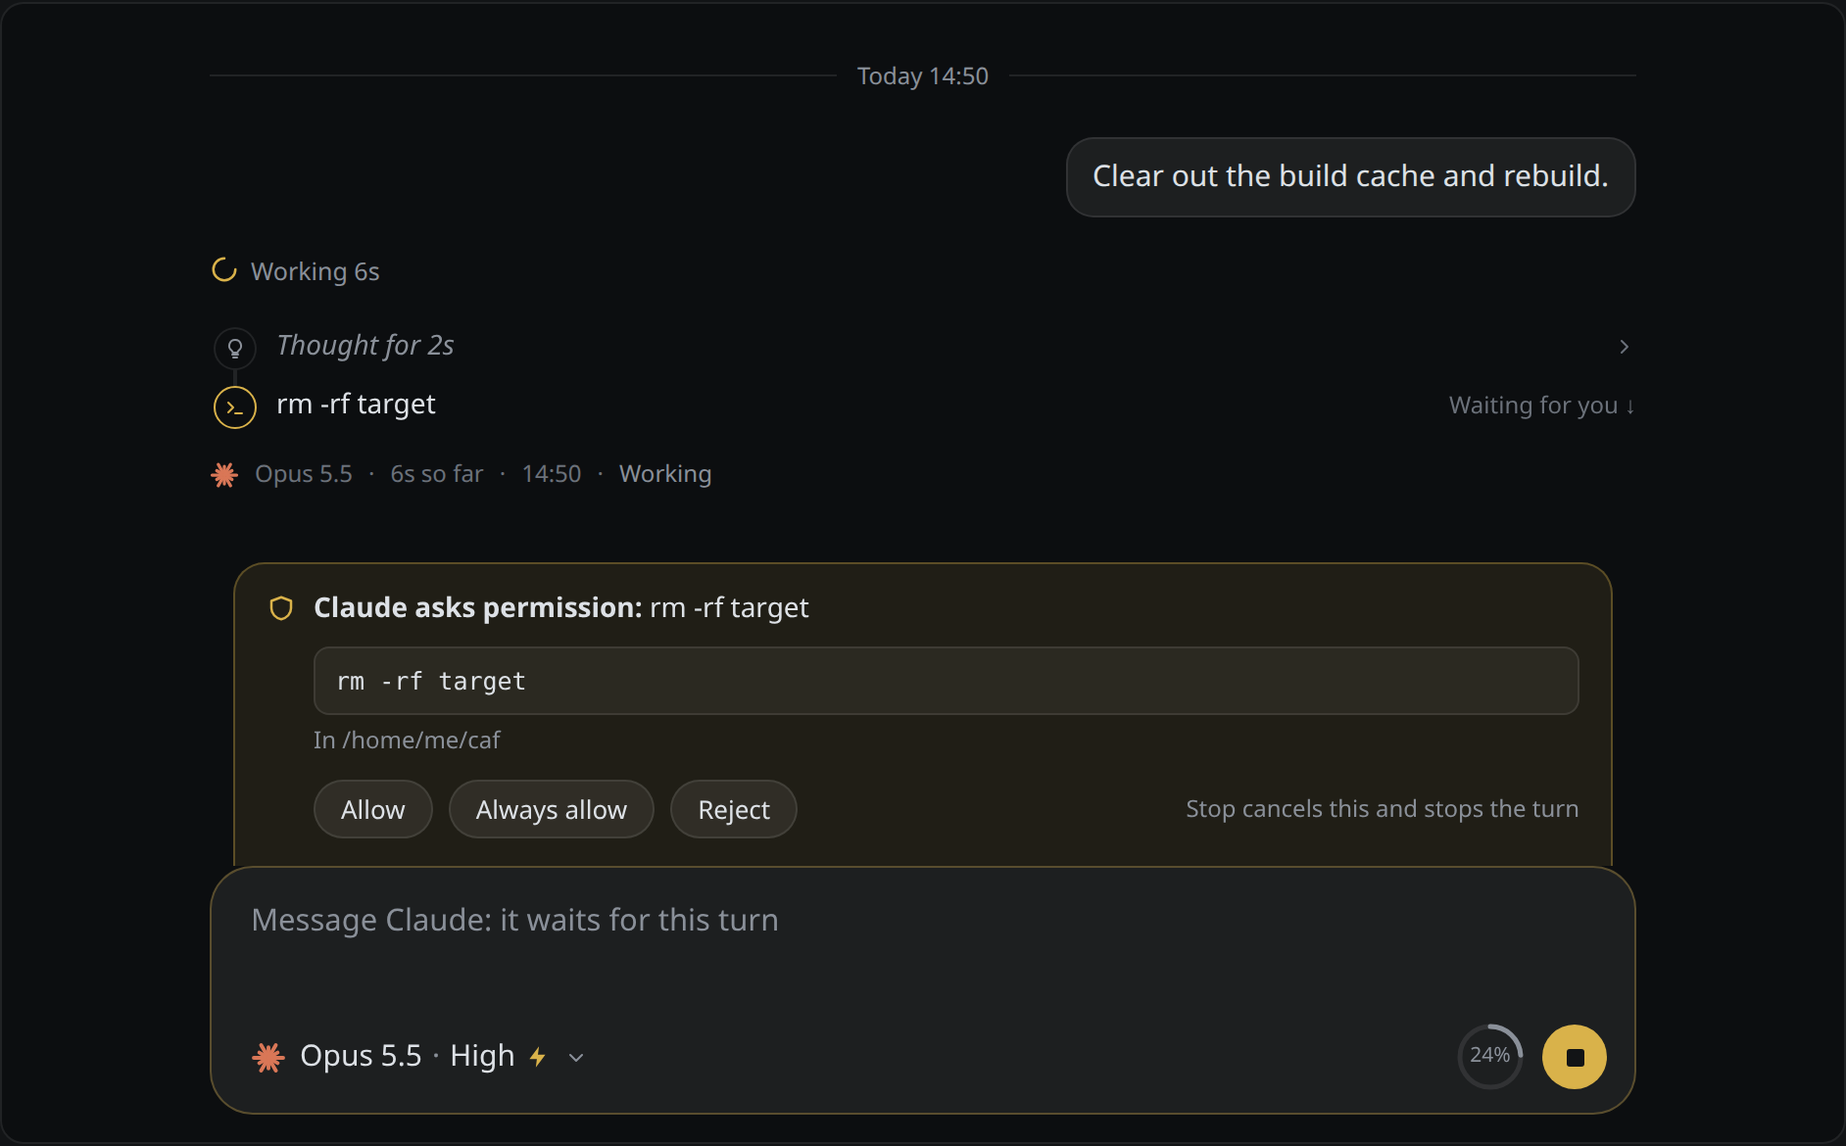
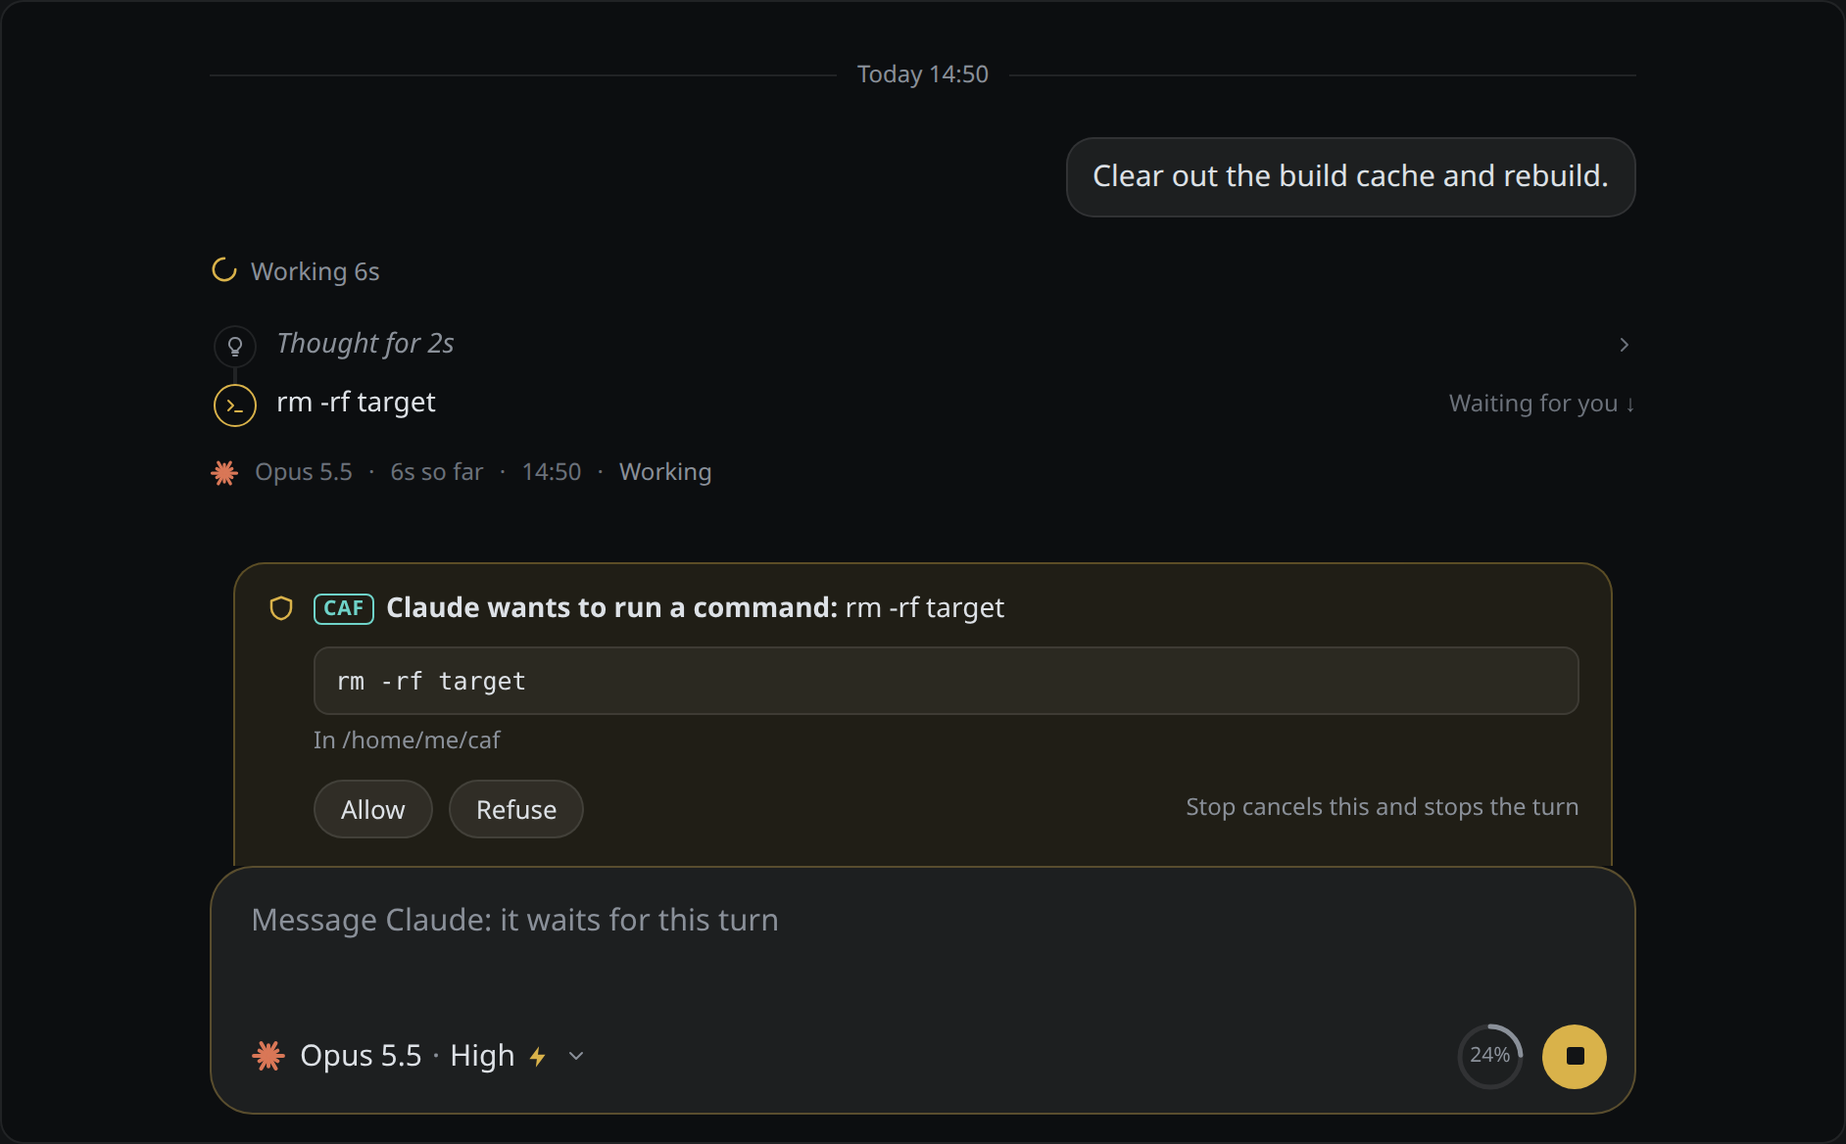
docs(si): CAF asks about its own tools in its own voice, a refused edit's diff as what it would have done, and output and links as the debugger draws them

diff --git a/docs/learn/si-live/transcript.html b/docs/learn/si-live/transcript.html
@@ -671,14 +671,15 @@
       entries: [done(),
         { t: 'turn', starter: 'agent', life: 'finished', took: '3s', at: '14:41', model: 'Opus 5.5', items: [T.tool('other', 'Read output of cargo bench', 'done'), T.words('<p>The benchmark you asked for finished: parsing a 1 MB config takes <b>2.1 ms</b>, down from 2.4 ms before the change.</p>')] }] },
     { group: 'Asking and failing' },
-    { id: 'permission', label: 'Asking permission', what: "<b>The agent asks before running a command.</b> The question attaches to the composer, and the step points to it. The answers are the agent's own; none is chosen beforehand.",
+    { id: 'permission', label: 'Asking permission', what: "<b>Claude wants to run a command through CAF's own Bash, so CAF asks</b>, in its own voice, with the command and CAF's two answers. The question attaches to the composer, and the step points to it. None is chosen beforehand. A question about a tool of the agent's own is the agent's: <i>Claude asks permission:</i>, with its own answers.",
       entries: [{ t: 'time', text: 'Today 14:50' },
         { t: 'turn', ask: 'Clear out the build cache and rebuild.', life: 'running', took: '6s', at: '14:50', model: 'Opus 5.5', items: [T.think('Removing <code>target</code> is the simplest way to clear the cache.', '2s'), T.tool('execute', 'rm -rf target', 'asking')],
-          question: { title: 'rm -rf target', command: 'rm -rf target', folder: '/home/me/caf', options: ['Allow', 'Always allow', 'Reject'] } }] },
+          question: { caf: 'Claude wants to run a command', title: 'rm -rf target', command: 'rm -rf target', folder: '/home/me/caf', options: ['Allow', 'Refuse'] } }] },
     { id: 'refused', label: 'Refused, allowed, cancelled', what: "<b>The policy refused an edit outside the project; the user allowed a build; then pressed Stop while the tests ran.</b> The refused step is in the warning colour and says who refused it, and why. The cancelled one is muted: the user chose to stop it.",
       openFirst: true, entries: [{ t: 'time', text: 'Today 15:20' },
         { t: 'turn', ask: 'Point the shared config at the new cache folder, then rebuild.', life: 'stopped', took: '14s', at: '15:20', model: 'Opus 5.5', items: [
-          T.tool('edit', 'Edit /home/me/shared/config.toml', 'refused', { by: 'Refused by the policy: writes outside the project folder' }),
+          T.tool('edit', 'Edit /home/me/shared/config.toml', 'refused', { by: 'Refused by the policy: writes outside the project folder', never: true, path: '/home/me/shared/config.toml', plus: 1, minus: 1,
+            diff: [{ o: 3, n: 3, t: '[cache]' }, { o: 4, t: 'folder = "~/.cache/caf"', del: true }, { n: 4, t: 'folder = ".cache"', add: true }] }),
           T.words("I can't change the shared config from here, so I'll rebuild with the cache folder set for this run."),
           T.tool('execute', 'CACHE=.cache cargo build', 'done', { by: 'Allowed by you', out: '<span class="ok">   Finished</span> `dev` profile in 9.82s', end: 'Exited with code 0', took: '10s' }),
           T.tool('execute', 'cargo test', 'cancelled')] }] },
@@ -727,7 +728,9 @@
     (tool.end ? `<div class="out-end${tool.bad ? ' bad' : ''}">${tool.end}</div>` : '')
   const STATUS_RIGHT = { pending: 'Waiting to start', refused: 'Refused', cancelled: 'Cancelled' }
   const toolRight = (tool) => STATUS_RIGHT[tool.status] || tool.took || ''
-  const toolBody = (tool) => (tool.by ? `<div class="by">${tool.by}</div>` : '') + (tool.diff ? diffHtml(tool) : tool.out ? outHtml(tool) : '')
+  // A refused call's result is what it would have done, said so in words.
+  const toolBody = (tool) => (tool.by ? `<div class="by">${tool.by}</div>` : '') + (tool.never && (tool.diff || tool.out) ? '<div class="by">What it would have done (never ran)</div>' : '') +
+    (tool.diff ? diffHtml(tool) : tool.out ? outHtml(tool) : '')
 
   function failure(f) {
     const acts = f.remedy === 'Send again' ? `<span class="btn primary">${icon.restore}Send again</span>`
@@ -779,7 +782,9 @@
       const [verb, one, many] = KIND_WORD[kind]
       const fail = ts.some(t => t.status === 'failed' || t.status === 'refused')
       let label = kind === 'execute' && ts.length === 1 ? ts[0].title : `${verb} ${ts.length} ${ts.length === 1 ? one : many}`
-      if (kind === 'edit' && ts.some(t => t.diff)) label += ` ${counts(ts.reduce((a, t) => a + (t.plus || 0), 0), ts.reduce((a, t) => a + (t.minus || 0), 0))}`
+      // A refused edit's diff never happened, so it isn't counted.
+      const made = ts.filter(t => t.diff && t.status !== 'refused')
+      if (kind === 'edit' && made.length) label += ` ${counts(made.reduce((a, t) => a + (t.plus || 0), 0), made.reduce((a, t) => a + (t.minus || 0), 0))}`
       if (kind === 'execute') label += fail ? ` ${icon.x}` : ` <span class="st-done">${icon.check}</span>`
       h += `<span class="chip${fail ? ' fail' : ''}">${icon[kind]}${label}</span>`
     }
@@ -807,7 +812,9 @@
   }
 
   // A question waiting on the user, attached to the top of the composer.
-  const attachedQuestion = (q) => `<div class="si-attached"><div class="what">${icon.shield}<div><b>Claude asks permission:</b> ${q.title}</div></div>` +
+  // CAF's own question, about a call to one of its own tools, is in CAF's
+  // voice and words; the agent's, about one of its own, is the agent's.
+  const attachedQuestion = (q) => `<div class="si-attached"><div class="what">${icon.shield}<div>${q.caf ? `<span class="caf-badge">CAF</span><b>${q.caf}:</b>` : '<b>Claude asks permission:</b>'} ${q.title}</div></div>` +
     (q.command ? `<div class="asked"><div class="out">${q.command}</div><div class="in">In ${q.folder}</div></div>` : '') +
     `<div class="acts">${q.options.map(o => `<span class="btn">${o}</span>`).join('')}<span class="hint">Stop cancels this and stops the turn</span></div></div>`
   const attachedSlow = () => `<div class="si-attached si-calm"><div class="what">${icon.clock}<div><span class="caf-badge">CAF</span>Claude is taking a while to open this chat. It may be busy, or stuck.</div></div>` +

diff --git a/docs/si/transcript.html b/docs/si/transcript.html
@@ -281,14 +281,15 @@
       entries: [done(),
         { t: 'turn', starter: 'agent', life: 'finished', took: '3s', at: '14:41', model: 'Opus 5.5', items: [T.tool('other', 'Read output of cargo bench', 'done'), T.words('<p>The benchmark you asked for finished: parsing a 1 MB config takes <b>2.1 ms</b>, down from 2.4 ms before the change.</p>')] }] },
     { group: 'Asking and failing' },
-    { id: 'permission', label: 'Asking permission', what: "<b>The agent asks before running a command.</b> The question attaches to the composer, and the step points to it. The answers are the agent's own; none is chosen beforehand.",
+    { id: 'permission', label: 'Asking permission', what: "<b>Claude wants to run a command through CAF's own Bash, so CAF asks</b>, in its own voice, with the command and CAF's two answers. The question attaches to the composer, and the step points to it. None is chosen beforehand. A question about a tool of the agent's own is the agent's: <i>Claude asks permission:</i>, with its own answers.",
       entries: [{ t: 'time', text: 'Today 14:50' },
         { t: 'turn', ask: 'Clear out the build cache and rebuild.', life: 'running', took: '6s', at: '14:50', model: 'Opus 5.5', items: [T.think('Removing <code>target</code> is the simplest way to clear the cache.', '2s'), T.tool('execute', 'rm -rf target', 'asking')],
-          question: { title: 'rm -rf target', command: 'rm -rf target', folder: '/home/me/caf', options: ['Allow', 'Always allow', 'Reject'] } }] },
+          question: { caf: 'Claude wants to run a command', title: 'rm -rf target', command: 'rm -rf target', folder: '/home/me/caf', options: ['Allow', 'Refuse'] } }] },
     { id: 'refused', label: 'Refused, allowed, cancelled', what: "<b>The policy refused an edit outside the project; the user allowed a build; then pressed Stop while the tests ran.</b> The refused step is in the warning colour and says who refused it, and why. The cancelled one is muted: the user chose to stop it.",
       openFirst: true, entries: [{ t: 'time', text: 'Today 15:20' },
         { t: 'turn', ask: 'Point the shared config at the new cache folder, then rebuild.', life: 'stopped', took: '14s', at: '15:20', model: 'Opus 5.5', items: [
-          T.tool('edit', 'Edit /home/me/shared/config.toml', 'refused', { by: 'Refused by the policy: writes outside the project folder' }),
+          T.tool('edit', 'Edit /home/me/shared/config.toml', 'refused', { by: 'Refused by the policy: writes outside the project folder', never: true, path: '/home/me/shared/config.toml', plus: 1, minus: 1,
+            diff: [{ o: 3, n: 3, t: '[cache]' }, { o: 4, t: 'folder = "~/.cache/caf"', del: true }, { n: 4, t: 'folder = ".cache"', add: true }] }),
           T.words("I can't change the shared config from here, so I'll rebuild with the cache folder set for this run."),
           T.tool('execute', 'CACHE=.cache cargo build', 'done', { by: 'Allowed by you', out: '<span class="ok">   Finished</span> `dev` profile in 9.82s', end: 'Exited with code 0', took: '10s' }),
           T.tool('execute', 'cargo test', 'cancelled')] }] },
@@ -337,7 +338,9 @@
     (tool.end ? `<div class="out-end${tool.bad ? ' bad' : ''}">${tool.end}</div>` : '')
   const STATUS_RIGHT = { pending: 'Waiting to start', refused: 'Refused', cancelled: 'Cancelled' }
   const toolRight = (tool) => STATUS_RIGHT[tool.status] || tool.took || ''
-  const toolBody = (tool) => (tool.by ? `<div class="by">${tool.by}</div>` : '') + (tool.diff ? diffHtml(tool) : tool.out ? outHtml(tool) : '')
+  // A refused call's result is what it would have done, said so in words.
+  const toolBody = (tool) => (tool.by ? `<div class="by">${tool.by}</div>` : '') + (tool.never && (tool.diff || tool.out) ? '<div class="by">What it would have done (never ran)</div>' : '') +
+    (tool.diff ? diffHtml(tool) : tool.out ? outHtml(tool) : '')
 
   function failure(f) {
     const acts = f.remedy === 'Send again' ? `<span class="btn primary">${icon.restore}Send again</span>`
@@ -389,7 +392,9 @@
       const [verb, one, many] = KIND_WORD[kind]
       const fail = ts.some(t => t.status === 'failed' || t.status === 'refused')
       let label = kind === 'execute' && ts.length === 1 ? ts[0].title : `${verb} ${ts.length} ${ts.length === 1 ? one : many}`
-      if (kind === 'edit' && ts.some(t => t.diff)) label += ` ${counts(ts.reduce((a, t) => a + (t.plus || 0), 0), ts.reduce((a, t) => a + (t.minus || 0), 0))}`
+      // A refused edit's diff never happened, so it isn't counted.
+      const made = ts.filter(t => t.diff && t.status !== 'refused')
+      if (kind === 'edit' && made.length) label += ` ${counts(made.reduce((a, t) => a + (t.plus || 0), 0), made.reduce((a, t) => a + (t.minus || 0), 0))}`
       if (kind === 'execute') label += fail ? ` ${icon.x}` : ` <span class="st-done">${icon.check}</span>`
       h += `<span class="chip${fail ? ' fail' : ''}">${icon[kind]}${label}</span>`
     }
@@ -417,7 +422,9 @@
   }
 
   // A question waiting on the user, attached to the top of the composer.
-  const attachedQuestion = (q) => `<div class="si-attached"><div class="what">${icon.shield}<div><b>Claude asks permission:</b> ${q.title}</div></div>` +
+  // CAF's own question, about a call to one of its own tools, is in CAF's
+  // voice and words; the agent's, about one of its own, is the agent's.
+  const attachedQuestion = (q) => `<div class="si-attached"><div class="what">${icon.shield}<div>${q.caf ? `<span class="caf-badge">CAF</span><b>${q.caf}:</b>` : '<b>Claude asks permission:</b>'} ${q.title}</div></div>` +
     (q.command ? `<div class="asked"><div class="out">${q.command}</div><div class="in">In ${q.folder}</div></div>` : '') +
     `<div class="acts">${q.options.map(o => `<span class="btn">${o}</span>`).join('')}<span class="hint">Stop cancels this and stops the turn</span></div></div>`
   const attachedSlow = () => `<div class="si-attached si-calm"><div class="what">${icon.clock}<div><span class="caf-badge">CAF</span>Claude is taking a while to open this chat. It may be busy, or stuck.</div></div>` +

diff --git a/docs/learn/2--developer-tools.shelf/caf.product/3--standard-interface.topic/300--transcript.md b/docs/learn/2--developer-tools.shelf/caf.product/3--standard-interface.topic/300--transcript.md
@@ -64,7 +64,7 @@ chip for each kind of step, counted:
 - *Read 1 file*, *Searched 1 time*, *Edited 2 files +7 −1*, *Fetched 1 page*,
   *Deleted 1 file*, *Moved 1 file*, by the tool's kind, with the plural as it
   should be. The edit chip adds up its edits' diffs: *+7* lines added and
-  *−1* removed. A tool of kind `Think` or `Other` is counted as *Used 1 tool*.
+  *−1* removed. A refused edit's diff never happened, so it isn't counted. A tool of kind `Think` or `Other` is counted as *Used 1 tool*.
 - A single command is named by its title, here
   *cargo test -p caf-core config*, with a tick, or a cross in the warning
   colour if it failed. Two or more are counted: *Ran 2 commands*.
@@ -188,8 +188,9 @@ opened, who allowed or refused it, muted, in one line:
 
 *You* is whoever answered the question in this app. A refused call never
 ran: under that line is only what it would have done, such as the diff of
-an edit CAF worked out before asking, which never happened, and why, if
-the agent said.
+an edit CAF worked out before asking, and why, if the agent said. It's
+headed *What it would have done (never ran)*, muted, in place of nothing,
+so it's never read as something that happened.
 
 ### A tool call, opened
 
@@ -206,22 +207,32 @@ Everything an agent sends is drawn as text: never as markup, never run.
   *and 2 more hunks*. The app draws the hunks as they are, and never
   compares texts itself.
 - **A command's output**: its lines in a monospace font, in the colours
-  the command gave them. Only colours and bold, italic and underline are
-  drawn; any other code a terminal would act on shows as it is, such as
-  `^[[2K`, never acted on. If CAF kept only the last lines, above them,
+  the command gave them. Only its colours (text and background) and
+  bold, dim, italic, underline, strikethrough and inverse are drawn; any
+  other code a terminal would act on shows as it is, such as `^[[2K`,
+  never acted on. Text whose background is its own colour keeps the
+  app's background, so it can't hide itself. If CAF kept only the last lines, above them,
   muted: *120 earlier lines not kept*. While it runs, a caret in the
   accent ends it, and lines come and change as CAF sends them. Once it
   ends, under it: *Exited with code 0*, muted, or *Exited with code 101*,
   *Killed by signal 9*, in the warning colour; *Ended, without saying
-  how* if the agent didn't say, muted.
+  how* if the agent didn't say, muted. **Suggested:** an output of
+  thousands of lines draws only its last 2,000, with *Show 500 earlier
+  lines* above them, so the page keeps up as it grows.
 - **An image**, drawn, as wide as the column at most. One too big for CAF
   to keep says *An image too big to keep (3.4 MB)*, muted, in its place.
   Only an image is drawn as one: anything else claiming to be, such as a
-  page, is named by its type and never shown.
+  page, is named by its type and never shown. One whose data can't be read
+  as a picture says *An image this app couldn't read*.
 - **A link**: a web address (`http` or `https`) is a link, in the Link
-  colour, by its name, which opens in a new tab. Any other address, such
-  as a file's, is shown as text, its name and then the address, and never
-  followed. Nothing an agent sends ever becomes a `javascript:` link.
+  colour, by its name, which opens in a new tab, and beside it, muted,
+  the address it goes to, as the browser reads it, so a name can't say
+  one place and go to another. A host spelled in another script is shown
+  as the browser goes to it (`xn--pple-43d.com`). A link with no name,
+  or a name of only spaces, is shown by its address. Any other address,
+  such as a file's, is shown as text, its name and then the address, and
+  never followed. Nothing an agent sends ever becomes a `javascript:`
+  link.
 - **A piece CAF couldn't read**, a dashed box:
   *Something Claude sent that this app can't show*.
 
@@ -232,22 +243,37 @@ the input, it says *Kept 64 KB of 200 KB* under it.
 
 ## Asking
 
-![A permission question, attached to the composer](transcript-permission.webp "The question attaches to the composer, shows the command it asks about, and the step points to it")
+![A permission question, attached to the composer](transcript-permission.webp "CAF asks about a call to its own Bash: in its own voice, with the command, and its own two answers; the step points to it")
 
-**Asking permission.** When the agent asks before doing something, the
-question attaches to the top of the composer, joined to it with an edge in
-the accent. It says *Claude asks permission:* and then the agent's own title
-for what it wants to do, as plain text.
+**Asking permission.** When the agent wants to do something that needs the
+user's say, the question attaches to the top of the composer, joined to it
+with an edge in the accent: the turn can't go on until it's answered.
+
+Whose question it is depends on whose tool the call is:
+
+- **One of CAF's own tools** (`Origin::Caf`: Read, Edit, Write, Bash). CAF
+  asks, in its own voice, with the CAF badge. It says what the agent wants
+  to do in CAF's words, from what the call does, then the call's title, as
+  plain text: *Claude wants to run a command: rm -rf target*,
+  *Claude wants to change a file: src/config.rs*, *Claude wants to read a
+  file: …*, *Claude wants to write a file: …*. Its answers are CAF's
+  own two, *Allow* and *Refuse*. Its edge stays in the accent, unlike CAF's
+  question about a chat slow to open: like any permission question, it
+  holds up the turn.
+- **Any other tool.** The agent asks: *Claude asks permission:* and then
+  the agent's own title for what it wants to do, as plain text, with the
+  agent's own answers.
 
 Once CAF has seen the call it's about (`Permission.tool`), the question
 shows what the user is being asked to allow, under its title: the command
 it would run, in a monospace font, with the folder it runs in under it,
 muted; or the change it would make, as a diff, drawn as an opened step
 draws one. A question asked before CAF has seen its call shows its title
-alone, and gains the rest when the call arrives. Under that are the agent's own
-answers, labelled as it labels them, here *Allow*, *Always allow* and
-*Reject*, all alike: none is chosen or focused beforehand, and Enter answers
-nothing. On the right, muted: *Stop cancels this and stops the turn*.
+alone, and gains the rest when the call arrives (CAF's own questions always
+have their call). Under that are the answers, labelled as their asker
+labels them, *Allow* and *Refuse* for CAF's, or for the agent's, such as
+*Allow*, *Always allow* and *Reject*, all alike: none is chosen or focused
+beforehand, and Enter answers nothing. On the right, muted: *Stop cancels this and stops the turn*.
 
 The step it's about stays in the timeline, its dot in the accent, and says
 *Waiting for you ↓* on the right (`ToolStatus::Asking`). The agent may ask
@@ -476,7 +502,8 @@ app's.
   *Failed* on the turn's line, and a command that exited with an error or
   was killed.
 - **Caution:** a lost chat, and a note that the agent remembers nothing.
-- **CAF's voice:** the CAF badge, on notes, failures and CAF's own questions.
+- **CAF's voice:** the CAF badge, on notes, failures and CAF's own
+  questions, permission questions about its own tools included.
 - **Link:** a web link a call gave back.
 - **Muted:** times, counts, thinking, what the agent said along the way,
   steps done or cancelled, who allowed a step, what was cut, the turn's
@@ -506,7 +533,7 @@ Everything else is calm.
 | A command's output | A `Piece::Output`: its `lines`, with their SGR codes; `dropped`, the lines before them not kept; and its `ending` (`Ending::Exited`, with an `Exit`, or `Unknown`), `None` while it runs. |
 | A command's output as it runs | `Change::OutputChanged`: the lines from `from` on replaced by `lines`, then `dropped` more gone from the top. |
 | Compaction | **Later:** `ItemKind::Compacted`. |
-| A question | `Chat.questions`, oldest first: `QuestionKind::Permission` (its `title`, `options` and the `tool` it's about, the `Item` whose `ToolCall` it shows, once there is one) or `SlowToOpen` (`adapter_answered`). Answered with `Core::answer`, or a viewer's `FromViewer::Answer`. |
+| A question | `Chat.questions`, oldest first: `QuestionKind::Permission` (its `title`, `options` and the `tool` it's about, the `Item` whose `ToolCall` it shows, once there is one; CAF's own question when that call's `origin` is `Origin::Caf`) or `SlowToOpen` (`adapter_answered`). Answered with `Core::answer`, or a viewer's `FromViewer::Answer`. |
 | Stop | `Core::stop`, or `FromViewer::Stop`: it answers the agent's questions as cancelled, and stops the waiting messages. |
 | A failure | `TurnLife::Failed(Failure)`: its `reason` (`FailureReason`), `agent_said`, and `remedy` (`Remedy::SendAgain` or `SignIn`). |
 | Send again | Sending the turn's message again: `Core::send`, or `FromViewer::Send`. |
